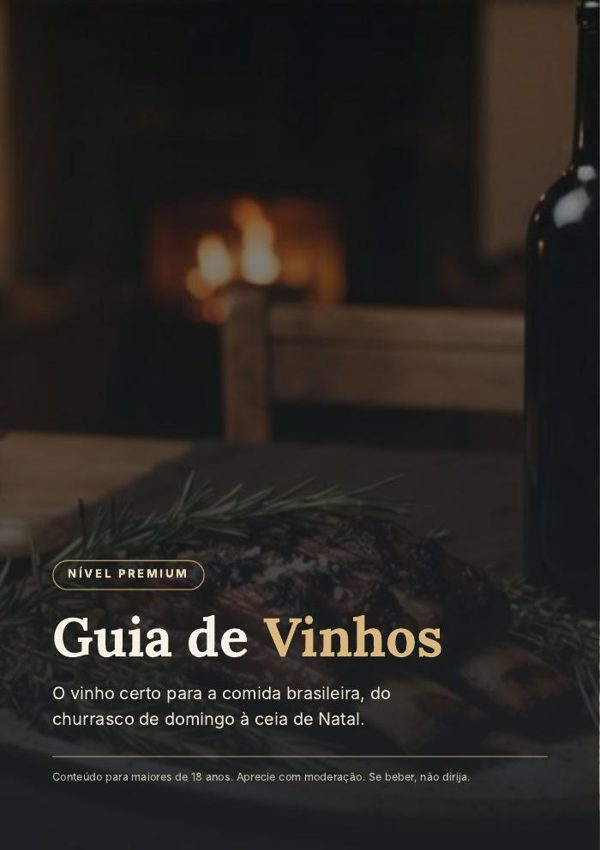
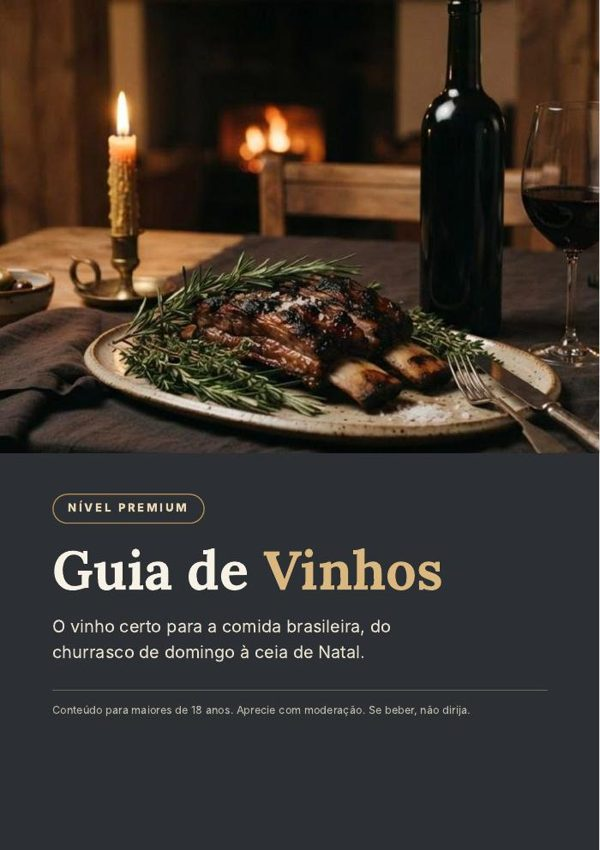
Guia de Vinhos: remove degradê sobre foto (capa, topo da oferta e do site grátis); foto limpa + bloco chumbo sólido
Claude-Session: https://claude.ai/code/session_01HbcAtcCsVXdkweR62kY9JE

diff --git a/guia-de-vinhos/index.html b/guia-de-vinhos/index.html
@@ -26,9 +26,9 @@ h1,h2,h3{font-family:Georgia,"Times New Roman",serif;font-weight:700;letter-spac
 .nav .lk::-webkit-scrollbar{display:none}
 .nav .lk a{color:#F1E9DA;text-decoration:none;padding:6px 10px;border-radius:99px;white-space:nowrap}
 .nav .lk a:hover{background:rgba(255,255,255,.1)}
-.hero{position:relative;background:var(--chumbo) url(/guia-de-vinhos/img/hero.jpg) center/cover no-repeat;color:#fff}
-.hero:before{content:"";position:absolute;inset:0;background:linear-gradient(180deg,rgba(28,30,33,.6),rgba(28,30,33,.88))}
-.hero .w{position:relative;padding-top:52px;padding-bottom:56px;max-width:860px}
+.hero{background:var(--chumbo);color:#fff}.hero .hf{display:block;width:100%;height:clamp(180px,32vw,340px);object-fit:cover}
+
+.hero .w{padding-top:26px;padding-bottom:40px;max-width:860px}
 .kick{font-size:12px;font-weight:800;letter-spacing:2.2px;text-transform:uppercase;color:var(--ouro)}
 .hero h1{font-size:34px;line-height:1.12;margin:12px 0 14px}
 .hero p{color:#EDE6D8;margin:0 0 22px;max-width:660px}
@@ -104,7 +104,7 @@ footer p{margin:0 0 10px}
 footer a{color:#fff}
 .hide{display:none!important}
 @media(min-width:720px){.hero h1{font-size:48px}.grid,.uvas,.tipos,.rules,.txt{grid-template-columns:repeat(2,1fr)}h2{font-size:34px}.res{grid-template-columns:1.2fr 1fr 1fr}.scale{grid-template-columns:repeat(4,1fr)}}
-@media(min-width:1100px){.grid,.uvas,.tipos,.rules,.txt{grid-template-columns:repeat(3,1fr)}.hero .w{padding-top:92px;padding-bottom:100px}}
+@media(min-width:1100px){.grid,.uvas,.tipos,.rules,.txt{grid-template-columns:repeat(3,1fr)}.hero .w{padding-top:40px;padding-bottom:56px}}
 @media(max-width:719px){.tbl thead{display:none}.tbl,.tbl tbody,.tbl tr,.tbl td{display:block;width:100%}.tbl tr{border-bottom:1px solid var(--line);padding:10px 0}.tbl td{border:0;padding:3px 14px}.tbl td:first-child{color:var(--vinho);font-size:16px}.tbl td[data-l]:before{content:attr(data-l) ": ";font-weight:700;font-size:13px;color:var(--mut)}}
 .qb a.gc{background:#B8935A;color:#fff;border-color:#B8935A;font-weight:800}.nav .lk a.gcn{color:#B8935A;font-weight:800}.gcb{background:#2C2F34;color:#EDE6D8;padding:40px 0}.gcbx{display:flex;flex-wrap:wrap;gap:18px;align-items:center;justify-content:space-between}.gcbx>div{flex:1 1 320px}.gcb h2{color:#F7F1E6;margin:6px 0 8px}.gcb p{margin:0;color:#D8D2C6}.gcbtn{display:inline-block;background:#B8935A;color:#fff;font-weight:800;padding:15px 22px;border-radius:12px;text-decoration:none;font-size:17px;white-space:nowrap}@media(max-width:600px){.gcbtn{display:block;text-align:center;width:100%}}</style>
 <script>!function(f,b,e,v,n,t,s){if(f.fbq)return;n=f.fbq=function(){n.callMethod?n.callMethod.apply(n,arguments):n.queue.push(arguments)};if(!f._fbq)f._fbq=n;n.push=n;n.loaded=!0;n.version='2.0';n.queue=[];t=b.createElement(e);t.async=!0;t.src=v;s=b.getElementsByTagName(e)[0];s.parentNode.insertBefore(t,s)}(window,document,'script','https://connect.facebook.net/en_US/fbevents.js');fbq('init','30156663417254394');fbq('track','PageView');</script>
@@ -112,7 +112,7 @@ footer a{color:#fff}
 </head><body>
 <nav class="nav"><div class="w"><b>Guia de Vinhos</b><div class="lk"><a href="#prato">Por prato</a><a href="#vinhos">Vinhos</a><a href="#uvas">Uvas</a><a href="#harmonizacao">Harmonização</a><a href="#tipos">Tipos</a><a href="#dicas">Dicas</a><a class="gcn" href="/guia-de-vinhos/oferta/">Guia completo</a></div></div></nav>
 
-<header class="hero"><div class="w">
+<header class="hero"><img class="hf" src="/guia-de-vinhos/img/hero.jpg" alt="Tábua de queijos, uvas e taças sobre a mesa" width="1440" height="708"><div class="w">
 <div class="kick">Para quem está começando</div>
 <h1>Guia de Vinhos — escolha o vinho certo para cada prato e ocasião</h1>
 <p>Vinho não precisa ser complicado. Aqui você escolhe o que vai comer e descobre o vinho que combina, conhece as principais uvas, entende a diferença entre leve e encorpado, seco e suave, e aprende a servir em casa.</p>

diff --git a/index.html b/index.html
@@ -26,9 +26,9 @@ h1,h2,h3{font-family:Georgia,"Times New Roman",serif;font-weight:700;letter-spac
 .nav .lk::-webkit-scrollbar{display:none}
 .nav .lk a{color:#F1E9DA;text-decoration:none;padding:6px 10px;border-radius:99px;white-space:nowrap}
 .nav .lk a:hover{background:rgba(255,255,255,.1)}
-.hero{position:relative;background:var(--chumbo) url(/guia-de-vinhos/img/hero.jpg) center/cover no-repeat;color:#fff}
-.hero:before{content:"";position:absolute;inset:0;background:linear-gradient(180deg,rgba(28,30,33,.6),rgba(28,30,33,.88))}
-.hero .w{position:relative;padding-top:52px;padding-bottom:56px;max-width:860px}
+.hero{background:var(--chumbo);color:#fff}.hero .hf{display:block;width:100%;height:clamp(180px,32vw,340px);object-fit:cover}
+
+.hero .w{padding-top:26px;padding-bottom:40px;max-width:860px}
 .kick{font-size:12px;font-weight:800;letter-spacing:2.2px;text-transform:uppercase;color:var(--ouro)}
 .hero h1{font-size:34px;line-height:1.12;margin:12px 0 14px}
 .hero p{color:#EDE6D8;margin:0 0 22px;max-width:660px}
@@ -104,7 +104,7 @@ footer p{margin:0 0 10px}
 footer a{color:#fff}
 .hide{display:none!important}
 @media(min-width:720px){.hero h1{font-size:48px}.grid,.uvas,.tipos,.rules,.txt{grid-template-columns:repeat(2,1fr)}h2{font-size:34px}.res{grid-template-columns:1.2fr 1fr 1fr}.scale{grid-template-columns:repeat(4,1fr)}}
-@media(min-width:1100px){.grid,.uvas,.tipos,.rules,.txt{grid-template-columns:repeat(3,1fr)}.hero .w{padding-top:92px;padding-bottom:100px}}
+@media(min-width:1100px){.grid,.uvas,.tipos,.rules,.txt{grid-template-columns:repeat(3,1fr)}.hero .w{padding-top:40px;padding-bottom:56px}}
 @media(max-width:719px){.tbl thead{display:none}.tbl,.tbl tbody,.tbl tr,.tbl td{display:block;width:100%}.tbl tr{border-bottom:1px solid var(--line);padding:10px 0}.tbl td{border:0;padding:3px 14px}.tbl td:first-child{color:var(--vinho);font-size:16px}.tbl td[data-l]:before{content:attr(data-l) ": ";font-weight:700;font-size:13px;color:var(--mut)}}
 .qb a.gc{background:#B8935A;color:#fff;border-color:#B8935A;font-weight:800}.nav .lk a.gcn{color:#B8935A;font-weight:800}.gcb{background:#2C2F34;color:#EDE6D8;padding:40px 0}.gcbx{display:flex;flex-wrap:wrap;gap:18px;align-items:center;justify-content:space-between}.gcbx>div{flex:1 1 320px}.gcb h2{color:#F7F1E6;margin:6px 0 8px}.gcb p{margin:0;color:#D8D2C6}.gcbtn{display:inline-block;background:#B8935A;color:#fff;font-weight:800;padding:15px 22px;border-radius:12px;text-decoration:none;font-size:17px;white-space:nowrap}@media(max-width:600px){.gcbtn{display:block;text-align:center;width:100%}}</style>
 <script>!function(f,b,e,v,n,t,s){if(f.fbq)return;n=f.fbq=function(){n.callMethod?n.callMethod.apply(n,arguments):n.queue.push(arguments)};if(!f._fbq)f._fbq=n;n.push=n;n.loaded=!0;n.version='2.0';n.queue=[];t=b.createElement(e);t.async=!0;t.src=v;s=b.getElementsByTagName(e)[0];s.parentNode.insertBefore(t,s)}(window,document,'script','https://connect.facebook.net/en_US/fbevents.js');fbq('init','30156663417254394');fbq('track','PageView');</script>
@@ -112,7 +112,7 @@ footer a{color:#fff}
 </head><body>
 <nav class="nav"><div class="w"><b>Guia de Vinhos</b><div class="lk"><a href="#prato">Por prato</a><a href="#vinhos">Vinhos</a><a href="#uvas">Uvas</a><a href="#harmonizacao">Harmonização</a><a href="#tipos">Tipos</a><a href="#dicas">Dicas</a><a class="gcn" href="/guia-de-vinhos/oferta/">Guia completo</a></div></div></nav>
 
-<header class="hero"><div class="w">
+<header class="hero"><img class="hf" src="/guia-de-vinhos/img/hero.jpg" alt="Tábua de queijos, uvas e taças sobre a mesa" width="1440" height="708"><div class="w">
 <div class="kick">Para quem está começando</div>
 <h1>Guia de Vinhos — escolha o vinho certo para cada prato e ocasião</h1>
 <p>Vinho não precisa ser complicado. Aqui você escolhe o que vai comer e descobre o vinho que combina, conhece as principais uvas, entende a diferença entre leve e encorpado, seco e suave, e aprende a servir em casa.</p>

diff --git a/guia-de-vinhos/oferta/index.html b/guia-de-vinhos/oferta/index.html
@@ -13,10 +13,9 @@ body{margin:0;font-family:Inter,system-ui,-apple-system,Segoe UI,Roboto,Arial,sa
 img{display:block;max-width:100%;height:auto}
 .w{max-width:620px;margin:0 auto;padding:0 18px}
 .urg{background:var(--dark);color:#E8D7B5;text-align:center;font-size:13.5px;font-weight:700;padding:9px 12px}
-.hero{position:relative;color:#fff;background:#1d1f22;overflow:hidden}
-.hero .bgi{position:absolute;inset:0;width:100%;height:100%;object-fit:cover;opacity:.55}
-.hero:after{content:"";position:absolute;inset:0;background:linear-gradient(180deg,rgba(29,31,34,.35),rgba(29,31,34,.92))}
-.hero .tx{position:relative;z-index:1;max-width:620px;margin:0 auto;padding:44px 18px 34px}
+.hero{color:#fff;background:#2C2F34}
+.hero .bgi{display:block;width:100%;max-width:620px;margin:0 auto;aspect-ratio:16/9;object-fit:cover}
+.hero .tx{max-width:620px;margin:0 auto;padding:22px 18px 34px}
 .kick{font-size:12px;font-weight:800;letter-spacing:2px;text-transform:uppercase;color:#D9B77E}
 h1{font-family:Georgia,'Times New Roman',serif;font-size:35px;line-height:1.08;margin:10px 0 12px}
 h1 span,h2 span{color:var(--acc)}
@@ -66,13 +65,13 @@ details p{margin:10px 0 0;color:var(--mut)}
 footer{padding:28px 18px 40px;text-align:center;font-size:14px;color:var(--mut)}footer a{color:inherit}
 .sticky{position:fixed;left:0;right:0;bottom:0;padding:10px 14px calc(10px + env(safe-area-inset-bottom));background:rgba(247,241,230,.94);backdrop-filter:blur(8px);border-top:1px solid var(--line);z-index:9}
 .sticky.off{display:none}.sticky .btn{max-width:560px;margin:0 auto;padding:14px;font-size:17px}
-.pop{position:fixed;inset:0;background:rgba(29,31,34,.65);display:none;align-items:center;justify-content:center;z-index:20;padding:16px}.pop.on{display:flex}
+.pop{position:fixed;inset:0;background:rgba(44,47,52,.7);display:none;align-items:center;justify-content:center;z-index:20;padding:16px}.pop.on{display:flex}
 .pop .box{background:var(--bg);border-radius:20px;max-width:420px;width:100%;padding:24px 20px;text-align:center;box-shadow:0 20px 60px rgba(0,0,0,.35)}
 .pop h3{font-family:Georgia,serif;color:var(--vinho);font-size:26px;margin:4px 0 8px;line-height:1.15}
 .pop .new{font-size:44px;font-weight:900;color:var(--vinho);margin:2px 0 6px}
 .pop p{margin:0 0 14px}
 .pop .nao{display:block;margin-top:12px;color:var(--mut);font-size:14px;text-decoration:underline;background:none;border:0;width:100%;cursor:pointer;font-family:inherit}
-.gate{position:fixed;inset:0;background:rgba(29,31,34,.94);z-index:40;display:none;align-items:center;justify-content:center;padding:18px}.gate.on{display:flex}
+.gate{position:fixed;inset:0;background:#2C2F34;z-index:40;display:none;align-items:center;justify-content:center;padding:18px}.gate.on{display:flex}
 .gate .box{background:var(--bg);border-radius:20px;max-width:400px;width:100%;padding:26px 20px;text-align:center}
 .gate h3{font-family:Georgia,serif;color:var(--vinho);font-size:24px;margin:0 0 8px}
 .gate .btn{margin-top:10px}
